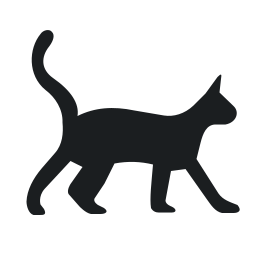
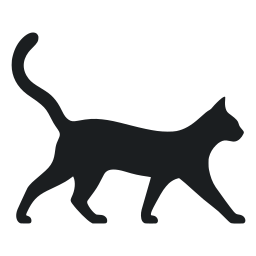
Simplify branding to a smooth monochrome cat silhouette

diff --git a/branding/README.md b/branding/README.md
@@ -1,12 +1,14 @@
 # Artwork
 
-`mark.svg` is the original Amy OS cat, drawn as a vector from a concept created
+`mark.svg` is the original Amy OS cat, vectorized from a concept created
 with the built-in imagegen tool. `./branding/render.sh` rebuilds every PNG and
 the Debian boot-menu SVG; it needs librsvg and Python 3.
 
 Concept brief: “An original walking cat in side profile, facing right, with
 a raised tail, natural proportions and a smooth, solid silhouette. The simple
 style of the old logo, with a fresh drawing. No lettering or interior detail.”
+
+The artwork is monochrome: no wordmark, colored tile or decorative line.
 
 The same geometry supplies the black and white README marks, desktop and
 installer icons, welcome graphic and boot splash. The old downloaded cat is
